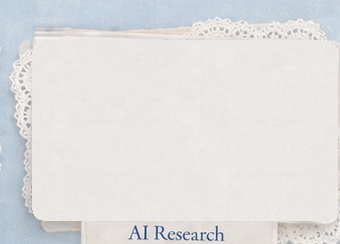
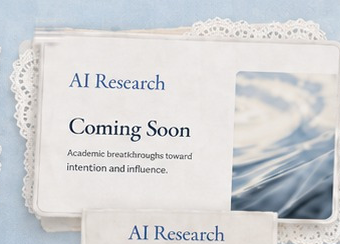
Stop repainting the sheet - let the screenshot cover the printing instead
Clearing the printed card off the sheet and filling it back in was the wrong
move. Whatever the fill was made of, it came out flat: a washed-out slab
where there had been paper with grain, layered edges and warmth. Reading the
vellum as a translucent layer and taking it back off does not work either -
it passes about a quarter of what is under it, so undoing it would multiply
the noise fourfold.

So nothing on the card is repainted now. The screenshot covers the printing,
306x179 over its 306x181, and everything around it is her paper exactly as
she made it.

The sheet differs from her original in 1013 pixels, all of them in the band
where the pin was lifted off, x 33..66 by y 15..44.

diff --git a/index.html b/index.html
@@ -999,7 +999,7 @@ const PROJECTS = [
    /* squared up to the paper's own cut, which leans 1.4deg, and centred on
       it rather than on the sheet. The pin is a piece of its own here so the
       screenshot passes under it instead of across it. */
-   card:{x: 640, y: 618, w: 302, h: 177, ang: -0.8},
+   card:{x: 639, y: 617, w: 306, h: 179, ang: -0.8},
    pin: null, overImg:"assets/work/pin-cuelens.png",
    label:{x: 657, y: 789, w: 238, h: 82, padTop: 12},
    title:"CueLens", desc:"AI-powered interface review<br>for conflicting visual cues."},
